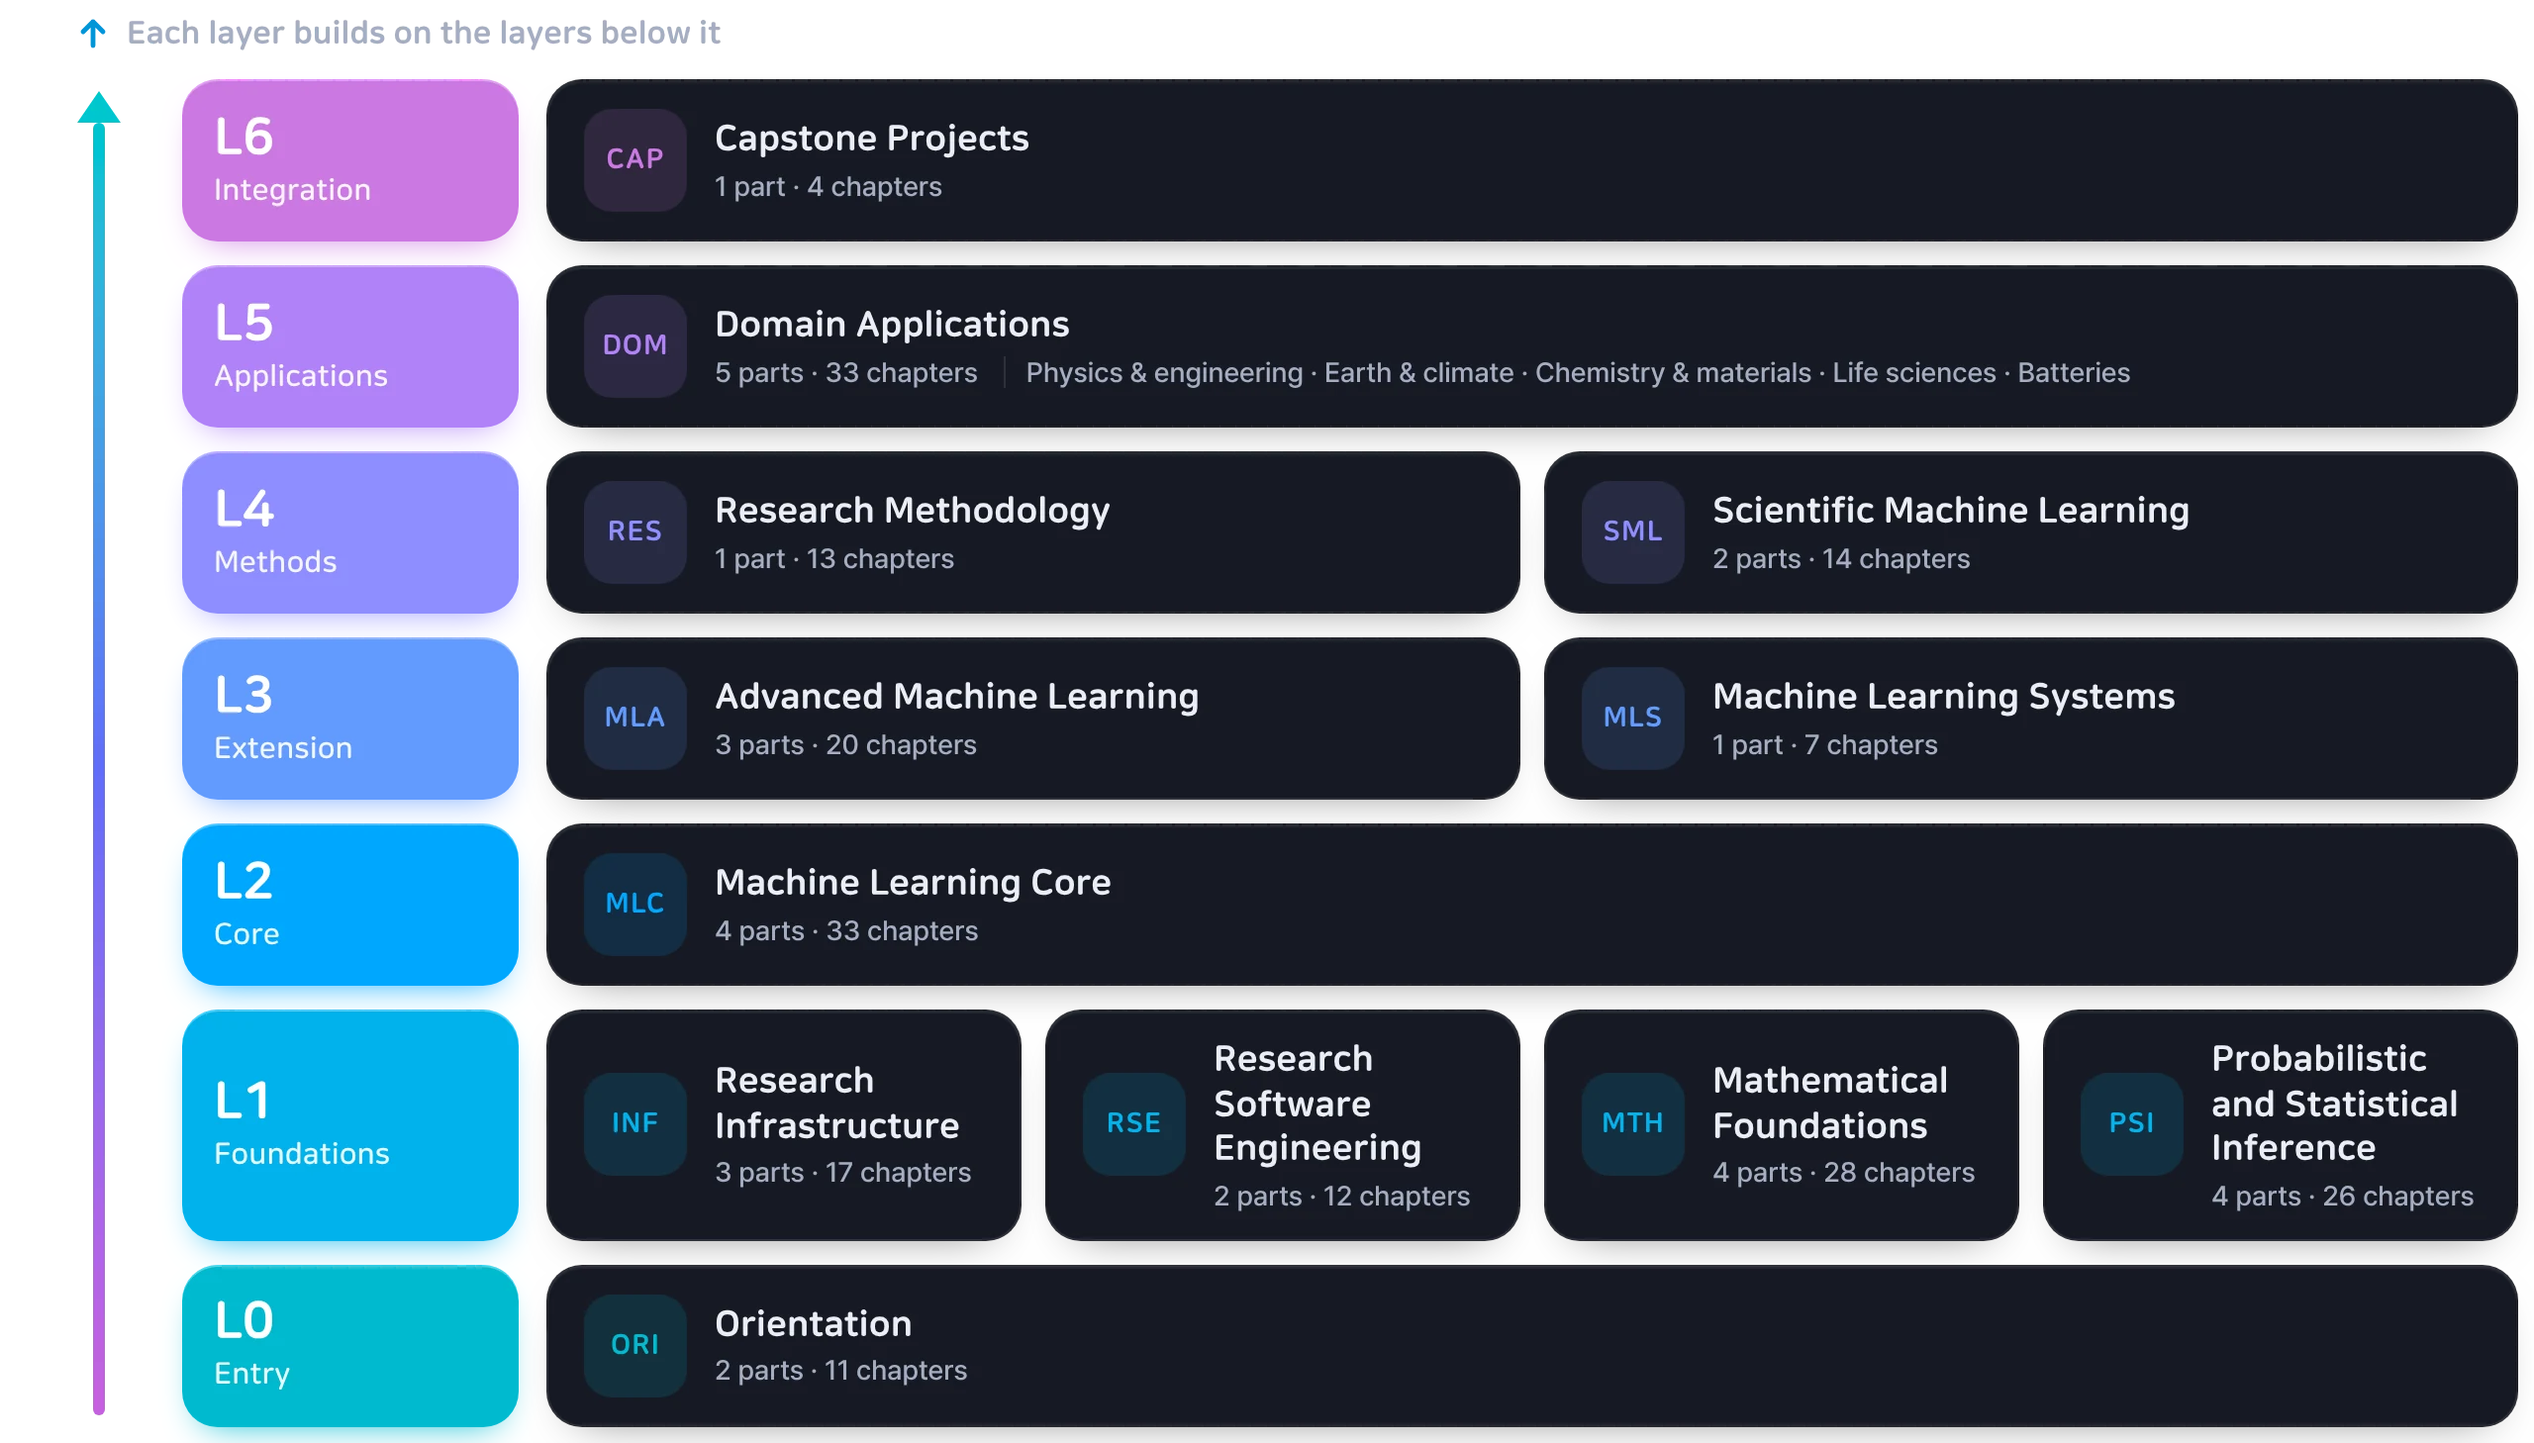
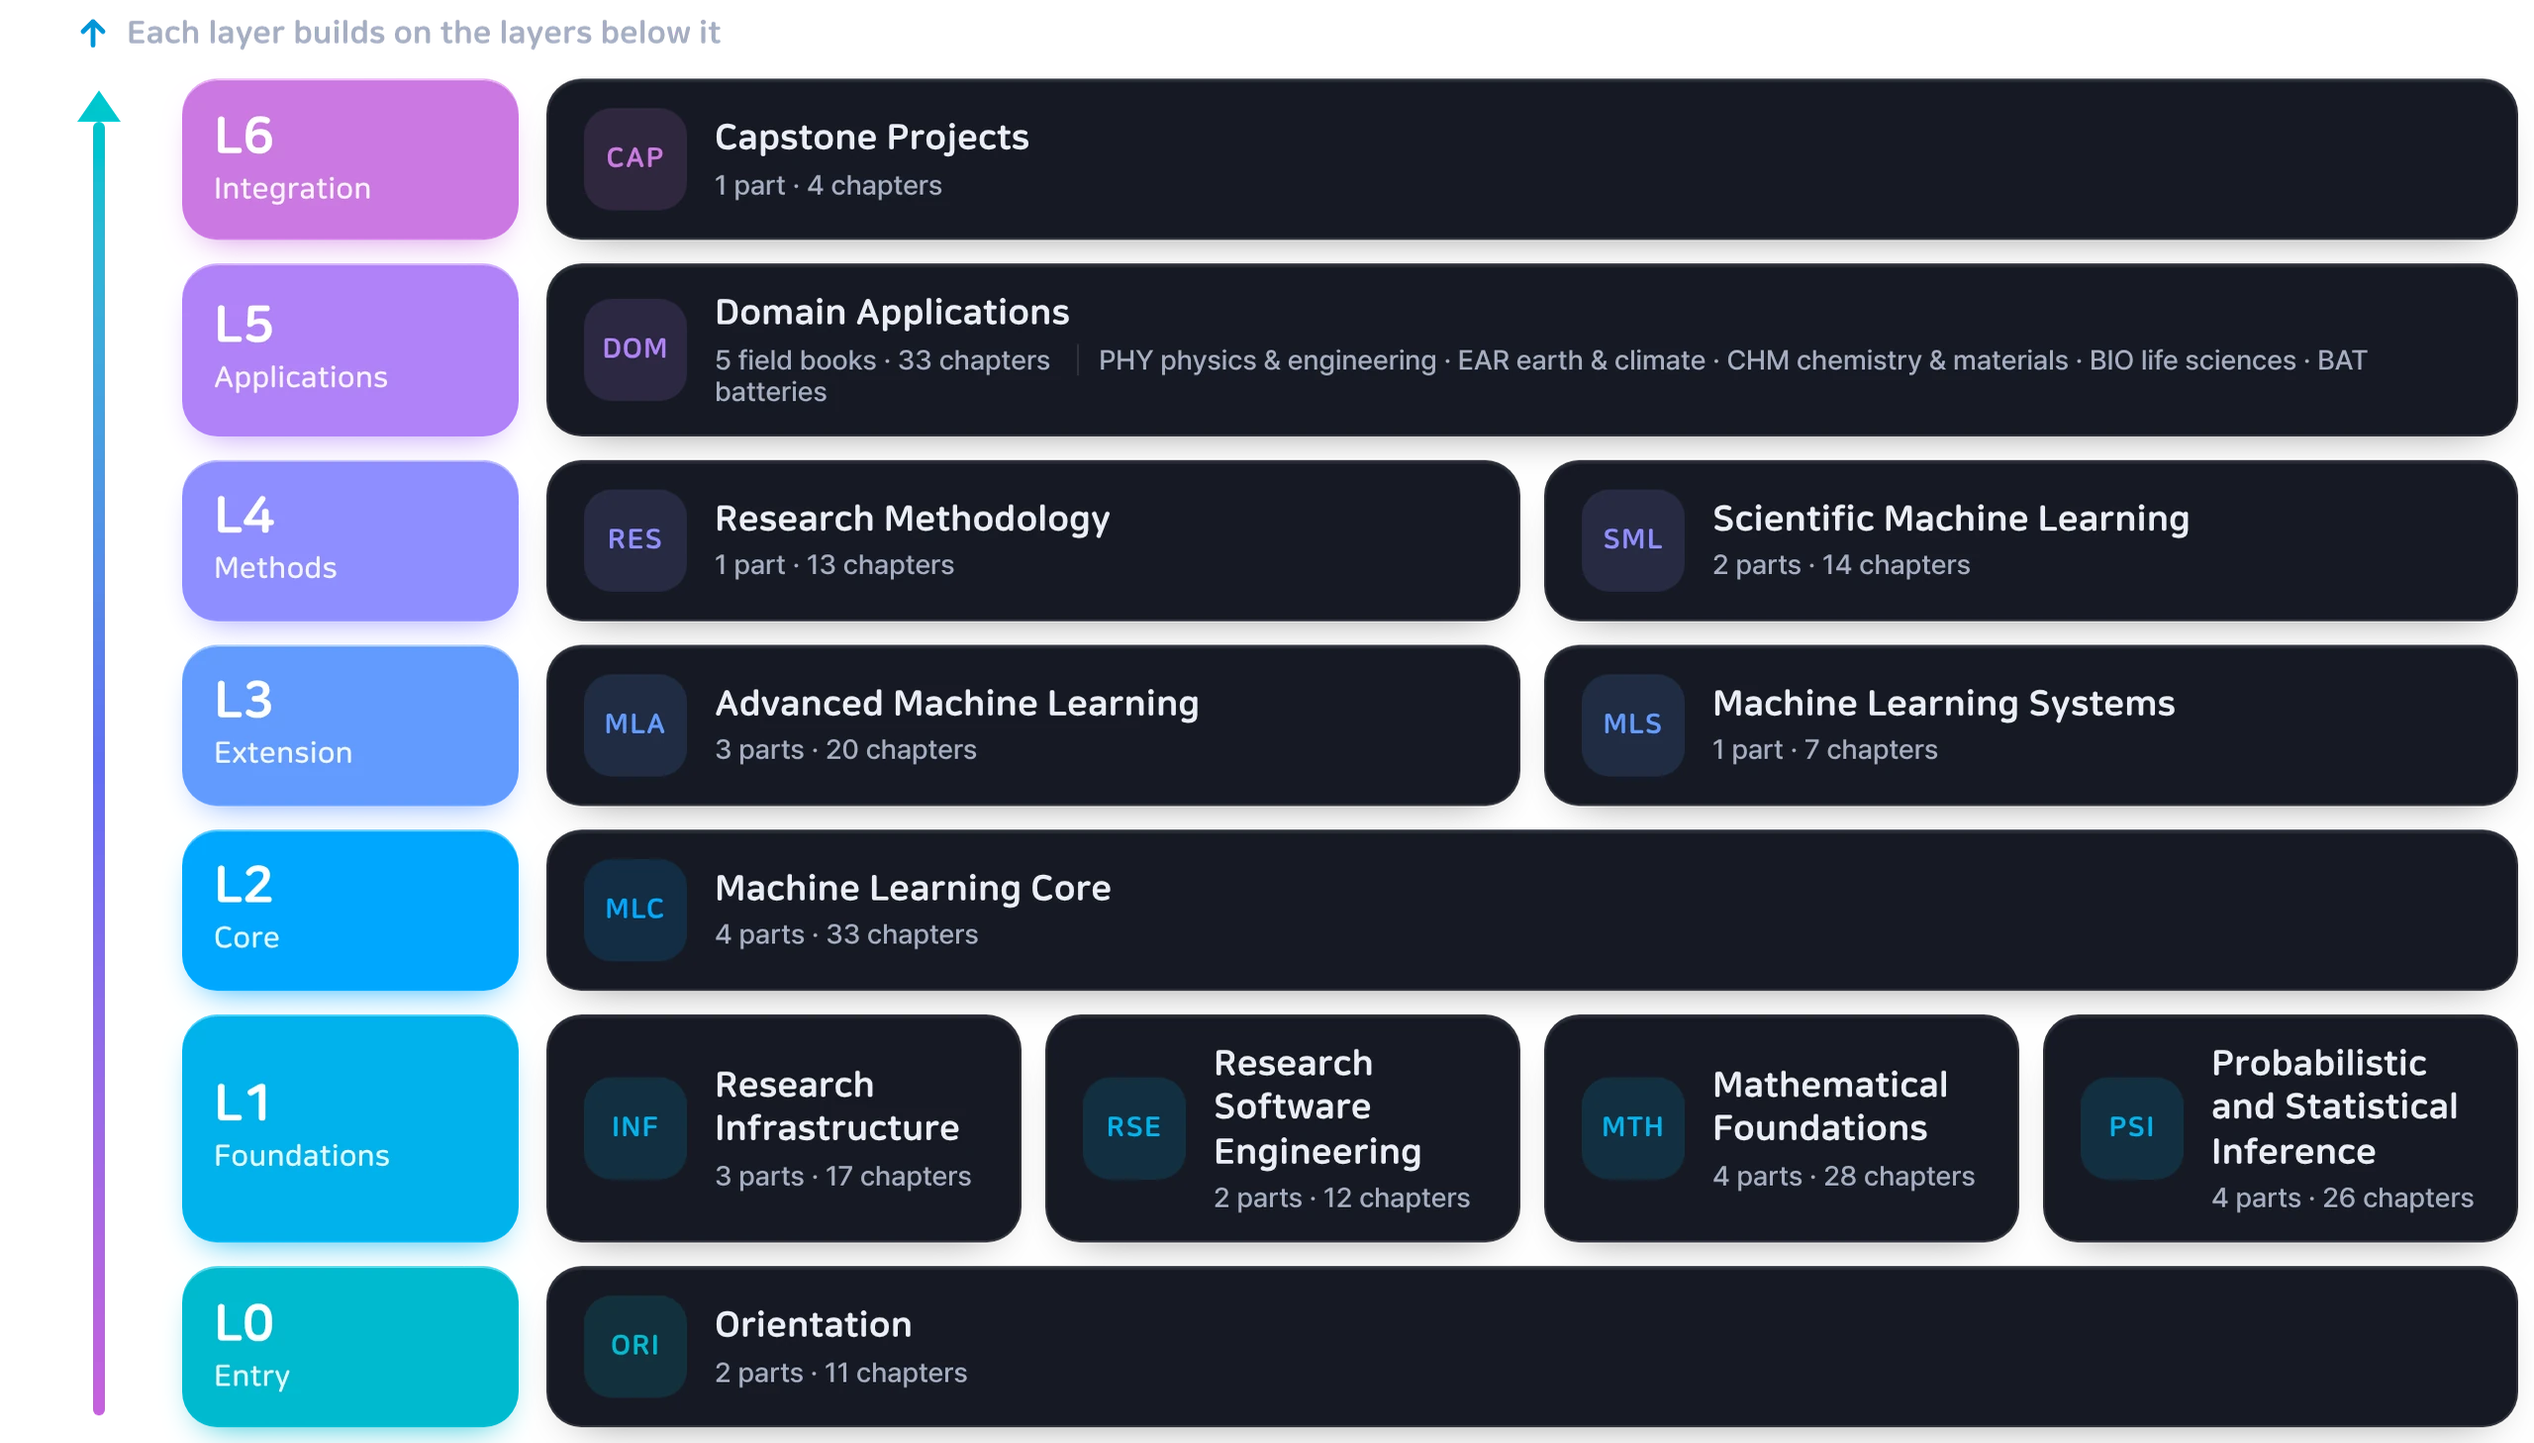
docs: describe the common shelf and field books in the README
The README counted 33 parts and showed the old roadmap tabs. It now
describes the common book (27 parts) and the five field books with their
codes, the two shelves of the Roadmap and the specialization a field book
leads to. The banner shows the new shelf switch, and the curriculum figure
labels the domain track as five field books.

diff --git a/README.ko.md b/README.ko.md
@@ -68,11 +68,11 @@
 
 | | |
 |---|---|
-| 🧭 **장 모음이 아니라 로드맵** | 7단계 레이어에 12개 분야, 33부, 226개 장이 놓여 있어요. 장마다 먼저 읽을 장이 정해져 있어서 다음에 뭘 읽을지 늘 알 수 있어요. |
+| 🧭 **장 모음이 아니라 로드맵** | 7단계 레이어에 12개 분야, 226개 장이 놓여 있어요. 모든 분야가 함께 읽는 공통 책 27부와, 한 분야를 깊이 읽는 분야 책 5권(물리·공학, 지구·기후, 화학·재료, 생명과학, 배터리)이에요. 장마다 먼저 읽을 장이 정해져 있어서 다음에 뭘 읽을지 늘 알 수 있어요. |
 | 🐍 **브라우저에서 돌아가는 Python** | 코드 셀이 그 자리에서 Pyodide로 실행돼요(NumPy, SciPy, pandas, matplotlib, scikit-learn). PyTorch와 GPU 예제는 복사 단추와 함께 읽기 전용으로 보여 주고, 장마다 내려받는 실습 파일로 내 컴퓨터에서 돌려 볼 수 있어요. |
 | ✅ **자동 채점 연습문제** | 내장 코드 편집기에 *실행*과 *채점* 단추가 있고, 테스트마다 결과를 보여 줘요. 장의 실습 파일은 `.zip`으로도 받을 수 있어요. |
 | 🧠 **이유까지 알려 주는 퀴즈** | 틀린 답마다 그 밑에 깔린 오해를 설명해 주고, 틀린 문제는 복습 목록에 모여요. |
-| 📚 **3D 책장** | 로드맵에 33권의 책을 분야별로 부채꼴로 펼쳐 놓았어요. 끌어서 돌리며 고르고, 책마다 내 진도가 보여요. |
+| 📚 **3D 책장** | 로드맵에 공통 책장과 분야 책장 두 책장이 있어요. 위쪽에서 책장을 바꾸고, 부채꼴로 펼친 책을 끌어서 돌리며 골라요. 책마다 내 진도가 보이고, 분야 책에서는 그 분야에 필요한 장만 묶은 전문 과정으로 이어져요. |
 | 🖥 **공부용 데스크톱** | 로드맵, 돌아보기, 노트, 자료실, 코드, 터미널, 설정 일곱 앱을 창으로 나란히 띄워요. 대시보드에서 진도와 오늘 할 일을 한눈에 봐요. |
 | 🔒 **처음부터 개인정보 보호** | 로그인이 없어요. 진도는 내 브라우저에만 저장되고, 파일로 내보냈다가 다시 가져올 수 있어요. |
 
@@ -103,7 +103,7 @@
 | | 머신러닝 시스템 | 실험을 어떻게 기록하고, 재현하고, 키우는가? |
 | **L4 방법론** | 연구 방법론 | 좋은 연구 질문은 무엇이고, 주장을 어떻게 검증하고 전달하는가? |
 | | 과학 머신러닝 | 물리 법칙, 시뮬레이션, 실험을 학습과 어떻게 결합하는가? |
-| **L5 응용** | 과학 분야별 응용 | 물리·공학 시뮬레이션 · 지구·기후 · 화학·소재 · 생명과학 · 에너지·배터리 |
+| **L5 응용** | 과학 분야별 응용(분야 책) | PHY 물리·공학 시뮬레이션 · EAR 지구·기후 · CHM 화학·재료 · BIO 생명과학 · BAT 에너지·배터리 |
 | **L6 통합** | 종합 프로젝트 | 배운 것을 하나의 공개 가능한 연구 산출물로 만들 수 있는가? |
 
 </details>

diff --git a/README.md b/README.md
@@ -68,11 +68,11 @@ Every chapter is built around the same loop. You read an idea, try it with your 
 
 | | |
 |---|---|
-| 🧭 **A roadmap, not a pile of chapters** | 226 chapters in 33 parts and 12 tracks, arranged in 7 layers. Each chapter declares what it builds on, so you always know what to read next. |
+| 🧭 **A roadmap, not a pile of chapters** | 226 chapters across 12 tracks in 7 layers: a common book of 27 parts that every field reads, plus 5 field books (physics, earth and climate, chemistry, life sciences, batteries). Each chapter declares what it builds on, so you always know what to read next. |
 | 🐍 **Python in the browser** | Code cells run in place with Pyodide (NumPy, SciPy, pandas, matplotlib, scikit-learn). PyTorch and GPU examples are shown read-only with a copy button; run them on your own machine with each chapter's downloadable lab files. |
 | ✅ **Auto-graded exercises** | A built-in code editor with *Run* and *Grade* buttons and per-test results. Each chapter's lab files also download as a `.zip` to run locally. |
 | 🧠 **Quizzes with feedback** | Every wrong answer explains the misconception behind it, and missed questions go to a review queue. |
-| 📚 **A 3D bookshelf** | The Roadmap lays out the 33 books as a fan you can drag and turn, grouped by field, with your progress on every book. |
+| 📚 **A 3D bookshelf** | The Roadmap has two shelves, the common shelf and the field shelf. Switch between them at the top, then drag and turn the books, with your progress on every book. A field book leads on to its specialization, a path through just the chapters that field needs. |
 | 🖥 **A learning desktop** | Seven apps open as windows side by side: Roadmap, Recap, Notes, Reference, Code, Terminal and Settings. A dashboard shows your progress and today's tasks. |
 | 🔒 **Private by design** | No login. Progress stays in your browser, and you can export it to a file and import it again. |
 
@@ -103,7 +103,7 @@ Twelve tracks are arranged in seven layers. A track builds only on tracks in the
 | | Machine Learning Systems | How do we track, reproduce and scale experiments? |
 | **L4 Methods** | Research Methodology | What makes a good research question, and how do we validate and communicate a claim? |
 | | Scientific Machine Learning | How do we combine physical laws, simulations and experiments with learning? |
-| **L5 Applications** | Domain Applications | Physics and engineering simulation · Earth and climate · Chemistry and materials · Life sciences · Energy and batteries |
+| **L5 Applications** | Domain Applications (field books) | PHY physics and engineering simulation · EAR earth and climate · CHM chemistry and materials · BIO life sciences · BAT energy and batteries |
 | **L6 Integration** | Capstone Projects | Can you turn what you learned into a research output you can publish? |
 
 </details>
